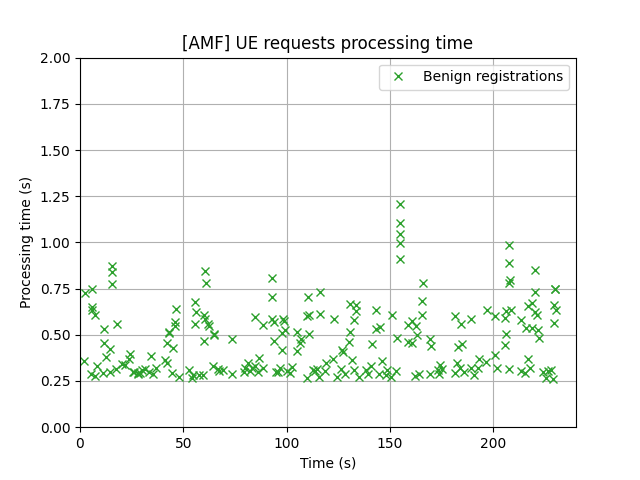
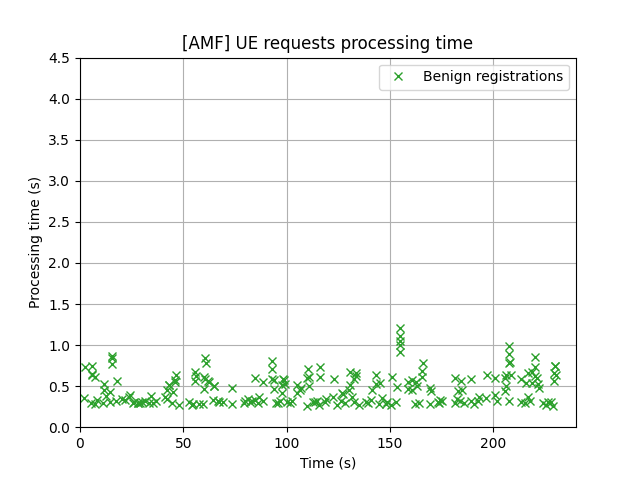
Experiments bis with 60 UEs

diff --git a/post_analysis.py b/post_analysis.py
@@ -359,11 +359,11 @@ if __name__ == "__main__":
     elif selector == 60:
         results = {
             f'{prefix}Simulation-1688775784': 'No storm',
-            f'{prefix}Simulation-1688777383': 'Default storm',
-            f'{prefix}Simulation-1688781750': 'Ghost storm',
+            f'{prefix}Simulation-1688781750': 'Default storm',
+            f'{prefix}Simulation-1688779677': 'Ghost storm',
             f'{prefix}Simulation-1688783571': 'AMF-active storm'
         }
-        max_time = 2
+        max_time = 4
     
     else:
         print("ERROR\nPlease choose a valid selector")
